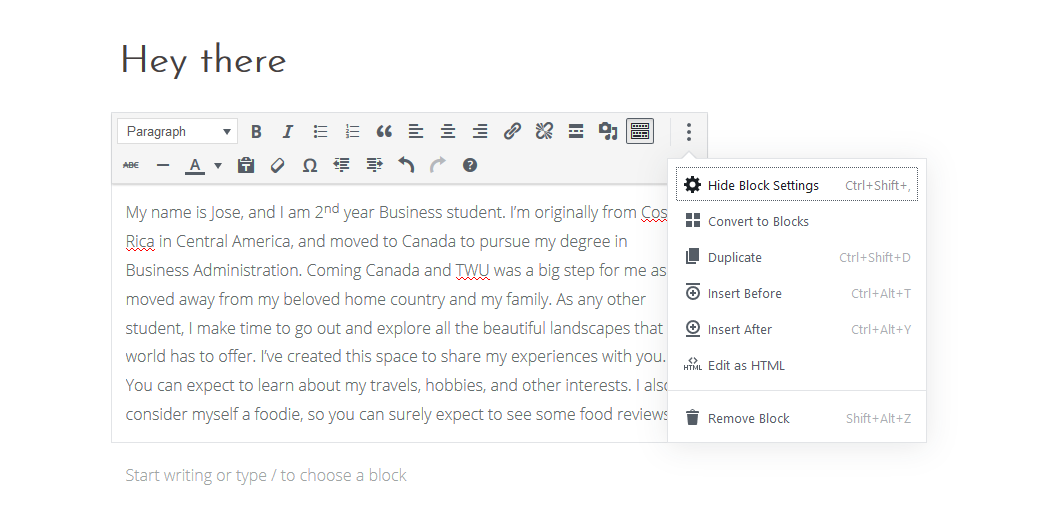
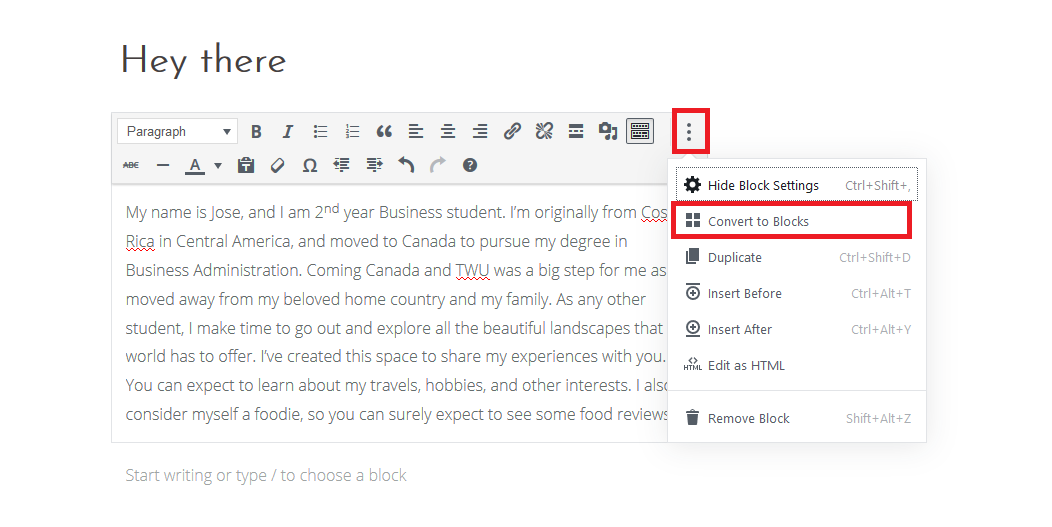
Old Posts

Changed region(s): [[0.6388, 0.3643, 0.8821, 0.4554], [0.6388, 0.1822, 0.6996, 0.3036]]

diff --git a/pages/03.wordpress/01.block-editor/05.Old Posts/docs.md b/pages/03.wordpress/01.block-editor/05.Old Posts/docs.md
@@ -1,22 +1,18 @@
 ---
-title: Customizing Blocks
+title: Old Posts
 taxonomy:
     category: docs
 child_type: docs
 ---
 
-You can control the content in the body editor. You can also control the styling of the text by using the menu bar that appears when you hover over a block.
+Your old content will not disappear! However, the experience is a little bid different. The block editor will put all the old content into a single **Classic Block**. The Classic block is basically the old TinyMCE editor, but embedded inside the new editor.
 
-![](blocktoolbar.png)
+![](oldpost.PNG)
 
-For more advanced styling, you can use the **Block** settings tab to change the font size, text and background color.
+To work with your old content you can:
+- Leave it as a Classic block and edit it like in the old editor
+- Use the **Three dots** icon and select **Convert to Blocks**. This will break it into individual blocks and you'll be able to edit it with the new block editor.
 
-![](block-advanced-settings.PNG)
-
-![](change-color.PNG)
-
-You can also make the first letter of the text a large initial letter by activating the **Drop Cap** feature in the **Block** settings tab.
-
-![](drop-cap1.PNG)
+![](convertoblocks.PNG)
 
 Once you're finished, click the **Publish** button.
